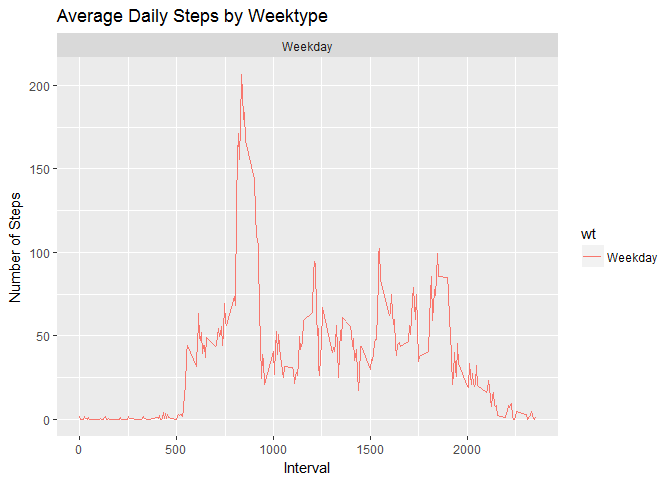
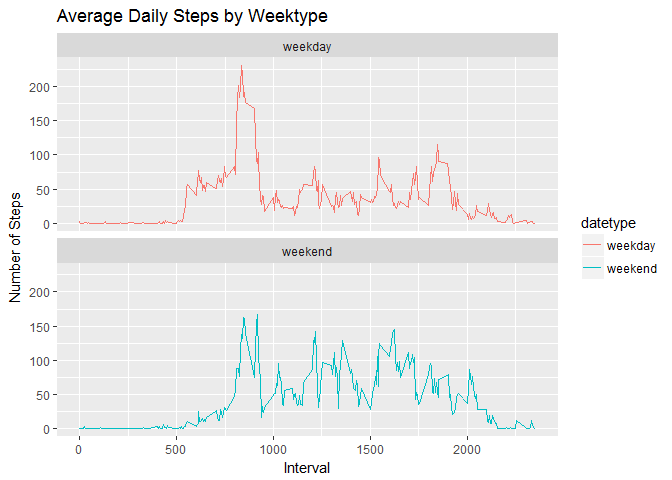
Last update

diff --git a/PA1_template.html b/PA1_template.html
@@ -137,7 +137,7 @@ summary(dataset)</code></pre>
 <pre class="r"><code>max(dataset$interval)</code></pre>
 <pre><code>## [1] 2355</code></pre>
 <p>Proocessing the data: changing data formats into usable formats and cutting out missing values</p>
-<pre class="r"><code>dataset$date &lt;- as.Date(dataset$date)
+<pre class="r"><code>dataset$date &lt;- as.Date(strptime(dataset$date, format = &quot;%Y-%m-%d&quot;))
 dataset$steps &lt;- as.integer(dataset$steps)
 dataset$interval &lt;- as.integer(dataset$interval)
 datasetclean &lt;- subset(dataset, !is.na(dataset$steps))</code></pre>
@@ -206,48 +206,16 @@ hist(x=newday, col = &quot;green&quot;, breaks = 25, xlab = &quot;New calculated
 <div id="are-there-differences-in-activity-patterns-between-weekdays-and-weekends" class="section level2">
 <h2>Are there differences in activity patterns between weekdays and weekends?</h2>
 <p>A first step to take would be too create another column in the dataset which to say if the day is weeekday or weekend. We can do this by creating a function which takes as input the day and this classification or we can do it manually.</p>
-<pre class="r"><code>library(dplyr)</code></pre>
-<pre><code>## 
-## Attaching package: 'dplyr'</code></pre>
-<pre><code>## The following objects are masked from 'package:stats':
-## 
-##     filter, lag</code></pre>
-<pre><code>## The following objects are masked from 'package:base':
-## 
-##     intersect, setdiff, setequal, union</code></pre>
-<pre class="r"><code>datasetfilled &lt;- datasetfilled %&gt;%
-        mutate(wt= ifelse(weekdays(datasetfilled$date)==&quot;Saturday&quot; | weekdays(datasetfilled$date)==&quot;Sunday&quot;, &quot;Weekend&quot;, &quot;Weekday&quot;))
-
-head(datasetfilled)</code></pre>
-<pre><code>##       steps       date interval      wt
-## 1 1.7169811 2012-10-01        0 Weekday
-## 2 0.3396226 2012-10-01        5 Weekday
-## 3 0.1320755 2012-10-01       10 Weekday
-## 4 0.1509434 2012-10-01       15 Weekday
-## 5 0.0754717 2012-10-01       20 Weekday
-## 6 2.0943396 2012-10-01       25 Weekday</code></pre>
-<p>Now we have to compare the activity patterns so we will creata a panel in which to figure the patterns for weekend and weekdays activity</p>
+<pre class="r"><code>datasetfilled$datetype &lt;- ifelse(weekdays(as.Date(datasetfilled$date, tz = &quot;UTC&quot;)) == &quot;sâmbătă&quot; | weekdays(as.Date(datasetfilled$date)) == &quot;duminică&quot;, &quot;weekend&quot;,&quot;weekday&quot;)</code></pre>
+<p>Now we have to compare the activity patterns so we will create a panel in which to figure the patterns for weekend and weekdays activity</p>
 <pre class="r"><code>library(ggplot2)
-int&lt;- datasetfilled%&gt;%
-        group_by(interval, wt)%&gt;%
-        summarise(avg_steps2 = mean(steps, na.rm=TRUE))
-head(int)</code></pre>
-<pre><code>## # A tibble: 6 x 3
-## # Groups:   interval [6]
-##   interval      wt avg_steps2
-##      &lt;int&gt;   &lt;chr&gt;      &lt;dbl&gt;
-## 1        0 Weekday  1.7169811
-## 2        5 Weekday  0.3396226
-## 3       10 Weekday  0.1320755
-## 4       15 Weekday  0.1509434
-## 5       20 Weekday  0.0754717
-## 6       25 Weekday  2.0943396</code></pre>
-<pre class="r"><code>plot&lt;- ggplot(int, aes(x =interval , y=avg_steps2, color=wt)) +
+activitybydate &lt;- aggregate(steps ~ interval + datetype, datasetfilled, mean, na.rm = TRUE)
+plot&lt;- ggplot(activitybydate, aes(x =interval , y=steps, color=datetype)) +
        geom_line() +
        labs(title = &quot;Average Daily Steps by Weektype&quot;, x = &quot;Interval&quot;, y = &quot;Number of Steps&quot;) +
-       facet_wrap(~wt, ncol = 1, nrow=2)
+       facet_wrap(~datetype, ncol = 1, nrow=2)
 print(plot)</code></pre>
[2 lines of base64/hex data omitted]
 </div>
 
 

diff --git a/PA1_template.md b/PA1_template.md
@@ -31,7 +31,7 @@ max(dataset$interval)
 Proocessing the data: changing data formats into usable formats and cutting out missing values
 
 ```r
-dataset$date <- as.Date(dataset$date)
+dataset$date <- as.Date(strptime(dataset$date, format = "%Y-%m-%d"))
 dataset$steps <- as.integer(dataset$steps)
 dataset$interval <- as.integer(dataset$interval)
 datasetclean <- subset(dataset, !is.na(dataset$steps))
@@ -158,72 +158,19 @@ A first step to take would be too create another column in the dataset which to 
 
 
 ```r
-library(dplyr)
+datasetfilled$datetype <- ifelse(weekdays(as.Date(datasetfilled$date, tz = "UTC")) == "sâmbătă" | weekdays(as.Date(datasetfilled$date)) == "duminică", "weekend","weekday")
 ```
 
-```
-## 
-## Attaching package: 'dplyr'
-```
-
-```
-## The following objects are masked from 'package:stats':
-## 
-##     filter, lag
-```
-
-```
-## The following objects are masked from 'package:base':
-## 
-##     intersect, setdiff, setequal, union
-```
-
-```r
-datasetfilled <- datasetfilled %>%
-        mutate(wt= ifelse(weekdays(datasetfilled$date)=="Saturday" | weekdays(datasetfilled$date)=="Sunday", "Weekend", "Weekday"))
-
-head(datasetfilled)
-```
-
-```
-##       steps       date interval      wt
-## 1 1.7169811 2012-10-01        0 Weekday
-## 2 0.3396226 2012-10-01        5 Weekday
-## 3 0.1320755 2012-10-01       10 Weekday
-## 4 0.1509434 2012-10-01       15 Weekday
-## 5 0.0754717 2012-10-01       20 Weekday
-## 6 2.0943396 2012-10-01       25 Weekday
-```
-
-Now we have to compare the activity patterns so we will creata a panel in which to figure the patterns for weekend and weekdays activity
+Now we have to compare the activity patterns so we will create a panel in which to figure the patterns for weekend and weekdays activity
 
 
 ```r
 library(ggplot2)
-int<- datasetfilled%>%
-        group_by(interval, wt)%>%
-        summarise(avg_steps2 = mean(steps, na.rm=TRUE))
-head(int)
-```
-
-```
-## # A tibble: 6 x 3
-## # Groups:   interval [6]
-##   interval      wt avg_steps2
-##      <int>   <chr>      <dbl>
-## 1        0 Weekday  1.7169811
-## 2        5 Weekday  0.3396226
-## 3       10 Weekday  0.1320755
-## 4       15 Weekday  0.1509434
-## 5       20 Weekday  0.0754717
-## 6       25 Weekday  2.0943396
-```
-
-```r
-plot<- ggplot(int, aes(x =interval , y=avg_steps2, color=wt)) +
+activitybydate <- aggregate(steps ~ interval + datetype, datasetfilled, mean, na.rm = TRUE)
+plot<- ggplot(activitybydate, aes(x =interval , y=steps, color=datetype)) +
        geom_line() +
        labs(title = "Average Daily Steps by Weektype", x = "Interval", y = "Number of Steps") +
-       facet_wrap(~wt, ncol = 1, nrow=2)
+       facet_wrap(~datetype, ncol = 1, nrow=2)
 print(plot)
 ```
 
